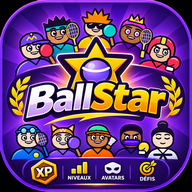
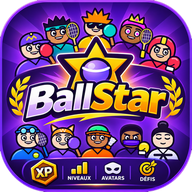
Icônes d'installation détourées (fond transparent) + maskable, manifeste corrigé
Claude-Session: https://claude.ai/code/session_01DWMzvDjuQqdn6i5FnQMur8

Changed region(s): [[0.0, 0.0, 1.0, 1.0], [0.1875, 0.5312, 0.25, 0.5625], [0.2812, 0.0625, 0.3125, 0.0938]]

diff --git a/sw.js b/sw.js
@@ -1,6 +1,6 @@
 /* Service worker Ball Star – tout est mis en cache : l'app fonctionne sans réseau, et prend la dernière version dès qu'il y a du réseau.
    Pour publier une mise à jour : changer VERSION ci-dessous (et APP_VERSION dans version.js). */
-const VERSION='2.3.5';
+const VERSION='2.3.6';
 const CACHE='ballstar-eleves-'+VERSION;
 const CORE=['fonts/fonts.css','fonts/lilita-one-latin-400-normal.woff2','fonts/nunito-latin-600-normal.woff2','fonts/nunito-latin-800-normal.woff2','fonts/nunito-latin-900-normal.woff2','footer.js','nouveautes.js','nouveautes.json',"./","index.html","ballstar.js","ballstar.css","bs-art.js","bs-rules.js","bs-install.js","lib/qrcode.js","lib/jsQR.js","bs-xlsx.js","eps-core.js","eleve-core.js","version.js","manifest.webmanifest","icons/icon-192.png","icons/icon-512.png","icons/icon-maskable-512.png","icons/apple-touch-icon.png","icons/neo-pocket.png"];
 self.addEventListener('install',e=>{e.waitUntil(caches.open(CACHE).then(c=>c.addAll(CORE)).then(()=>self.skipWaiting()))});

diff --git a/index.html b/index.html
@@ -7,7 +7,7 @@
 <meta name="theme-color" content="#12062b">
 <link rel="manifest" href="manifest.webmanifest">
 <link rel="icon" href="icons/icon-192.png">
-<link rel="apple-touch-icon" href="icons/apple-touch-icon.png">
+<link rel="apple-touch-icon" href="icons/icon-maskable-192.png">
 <meta name="apple-mobile-web-app-capable" content="yes">
 <meta name="apple-mobile-web-app-status-bar-style" content="black-translucent">
 <link rel="stylesheet" href="fonts/fonts.css">

diff --git a/version.js b/version.js
@@ -1,1 +1,1 @@
-const APP_VERSION="2.3.5"; // ← modifier ici ET dans sw.js (VERSION) pour publier une mise à jour
+const APP_VERSION="2.3.6"; // ← modifier ici ET dans sw.js (VERSION) pour publier une mise à jour
